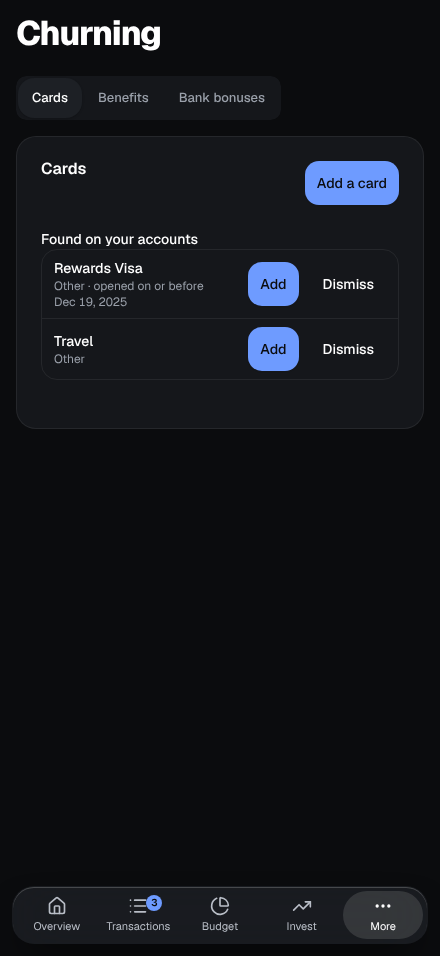
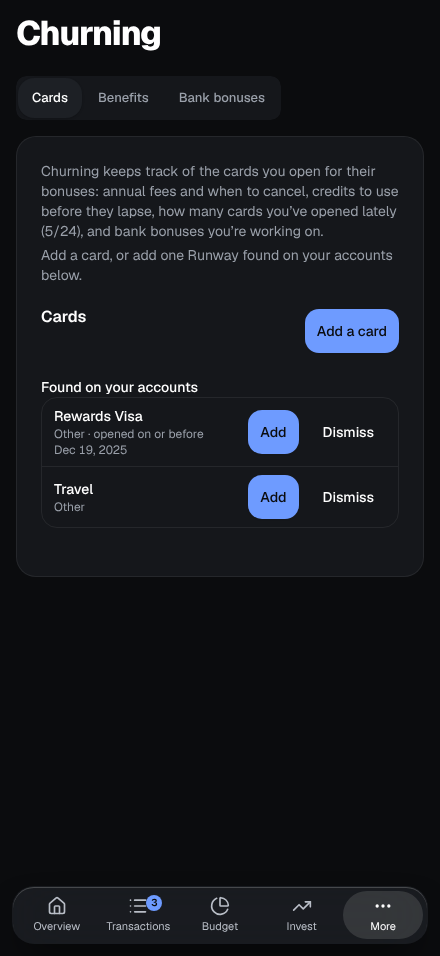
feat: say what Churning is for until the first card is added (#511)

diff --git a/frontend/src/pages/Churning.svelte.test.ts b/frontend/src/pages/Churning.svelte.test.ts
@@ -108,6 +108,19 @@ describe("the Churning page", () => {
     expect(await screen.findByPlaceholderText("e.g. Sapphire Preferred")).toBeInTheDocument();
   });
 
+  it("says what Churning is for until the first card is added, and not once there is one", async () => {
+    serve({});
+    const { unmount } = render(Churning, { sub: "cards" });
+    const intro = await screen.findByTestId("churning-intro");
+    expect(intro).toHaveTextContent("Churning keeps track of the cards you open for their bonuses");
+    expect(intro).toHaveTextContent("Add a card, or add one Runway found on your accounts below.");
+    unmount();
+    serve({ cards: [card()] });
+    render(Churning, { sub: "cards" });
+    await screen.findByRole("button", { name: "Add a card" });
+    expect(screen.queryByTestId("churning-intro")).toBeNull();
+  });
+
   it("collapses empty sections to one line and hides Best card, and Rewards is a line, when there is one card and little else", async () => {
     vi.mocked(api).mockImplementation((async (path: string) => (path.startsWith("/api/churning/best") ? { cards: [] } : churning({ cards: [card({ status: "closed" })] }))) as never);
     render(Churning, { sub: "" });

diff --git a/frontend/src/pages/Churning.svelte b/frontend/src/pages/Churning.svelte
@@ -163,6 +163,13 @@
     {:else}<EmptyLine label="Rewards" message="no points tracked yet" action="Add a balance" onaction={() => (addingBalance = true)} />{/if}
   {:else if tab === "cards"}
     <Card.Root class="mb-6">
+      <!-- Until the first card is added (dismissing found cards doesn't count), say what the page is for. -->
+      {#if !d.cards.length}
+        <div class="space-y-1 px-6 text-sm text-muted-foreground" data-testid="churning-intro">
+          <p>Churning keeps track of the cards you open for their bonuses: annual fees and when to cancel, credits to use before they lapse, how many cards you’ve opened lately (5/24), and bank bonuses you’re working on.</p>
+          <p>Add a card, or add one Runway found on your accounts below.</p>
+        </div>
+      {/if}
       <Card.Header>
         <Card.Title>Cards</Card.Title>
         <Card.Action><Button size="sm" onclick={() => addCard()}>Add a card</Button></Card.Action>

diff --git a/docs/src/content/docs/using/features.md b/docs/src/content/docs/using/features.md
@@ -147,6 +147,7 @@ On Net worth → Retirement.
 
 Credit cards and bank accounts opened for their sign-up bonuses, for you and your partner, on four tabs under the 5/24, annual fee and bonus tiles: **Overview** (Upcoming, Planned, Best card for… and Rewards), Cards, Benefits and Bank bonuses. Overview is the page's address (`#churning`) and Cards is `#churning/cards`. Deadlines (an annual fee, a bonus's spending, a bank bonus's due date, an Upcoming item) are red within 7 days or once overdue and amber within 30; a bonus's spending bar takes the same color, and hovering it says how much a day the rest needs. A status (received, missed, a plan that's due) is a filled label, and an attribute (Business, AU) a plain outline.
 
+- **Before your first card:** the Cards tab says what Churning is for (annual fees and when to cancel, credits to use before they lapse, how many cards you’ve opened lately, and bank bonuses) and points to adding a card or one found on your accounts. It goes away once any card is added; dismissing found cards doesn’t count.
 - **Cards found on your accounts:** every credit card account Runway already has that isn't a churning card yet appears under "Found on your accounts" (on larger screens), pre-filled from what the bank reported: whose it is, the bank (matched to the ones Churning knows, else Other), the card's name cleaned of the last digits and network words, the latest annual fee (from transactions named like "Annual fee"), a business card when its name says so, and the account's spending linked. **Add** opens the add-card form to review (nothing is saved until you save it); **Dismiss** hides one, and you can bring it back from the "dismissed" list. Banks don't say when a card was opened, so the date is the account's first transaction in Runway, marked "on or before": change it to the real day, since 5/24 and the bonus rules depend on it.
 - **Adding a card:** the form keeps the essentials up front (whose card, the bank, the card's name, the day it was opened and the annual fee) and puts the rest in sections that start closed: Earning rates, Sign-up bonus, Benefits, Plan and More details. A closed section says what's in it ("3 rates", "75k Ultimate Rewards after $4,000 in 3 months"), and one opens by itself when the AI fills something in it or a save is refused because of it. Add checks the required fields (marked with a star) and says which are missing; a refusal from the server shows by the Add button and in its section, and on a phone Add stays at the bottom of the form. Benefits can be added with the card (from the quick-add list or typed in) and are saved with it; a lounge's guests, what a benefit is worth to you and its reminders are set from the card's Edit afterwards. The annual fee always posts in the account's anniversary month (the month the card was opened, or for a product change, the month the original card was), so there's no month to choose; a month set on a card by an older version is ignored.
 - **Fill in the rest:** with an OpenRouter key or an Ollama address set (Settings → Connections), the add and edit card forms offer a button that asks the model about the card: its family, what it earns, earning rates by your categories, annual fee, travel portal, benefits (credits with their amount and how often they reset, lounge access and guests, status) and, when you're adding a card, the current public sign-up bonus (amount, spend and months); the sections that get something open for you to check. Card offers change often, so by default it searches the web first (OpenRouter's web search, preferring the bank's own page) and lists the pages it used under the suggestions ("From: chase.com, …") so you can check them. The search costs extra on top of the model: about $4 per 1,000 results with OpenRouter's own search engine and at most 10 results a card, so up to about 4¢, plus the model's tokens for reading them (a model's built-in search, where OpenRouter uses one, is priced by its provider). Switch it off under Settings → Connections → AI categorization to answer from the model's memory alone, which is cheaper but often out of date, and is labelled so. If the search fails, the error says so. Only the bank's name and the card's name are sent: no account, owner, balance or transaction. Anything that isn't one of your currencies or categories is dropped, and the rest fills only what's still empty, marked "Suggested by AI, check before saving". Card lookups use their own model (Claude Haiku 4.5 by default, since it calls the web search reliably and is cheap), set under Settings → Connections → AI beside the categorization model. Models can still be wrong; nothing is saved until you add the card (or choose Save these on an existing one).
